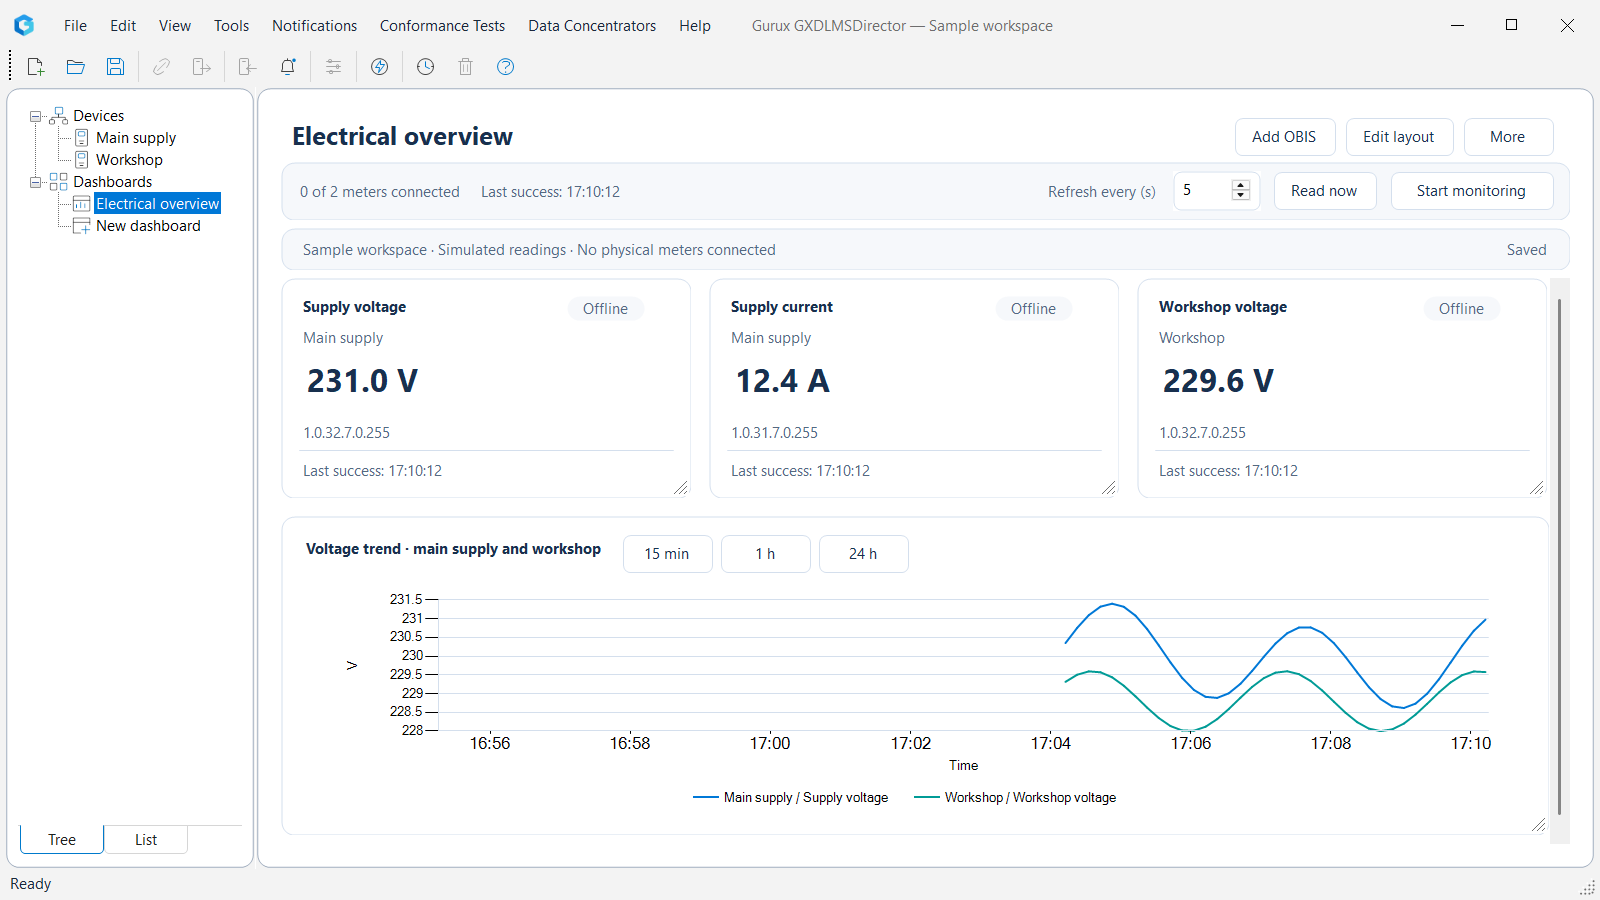
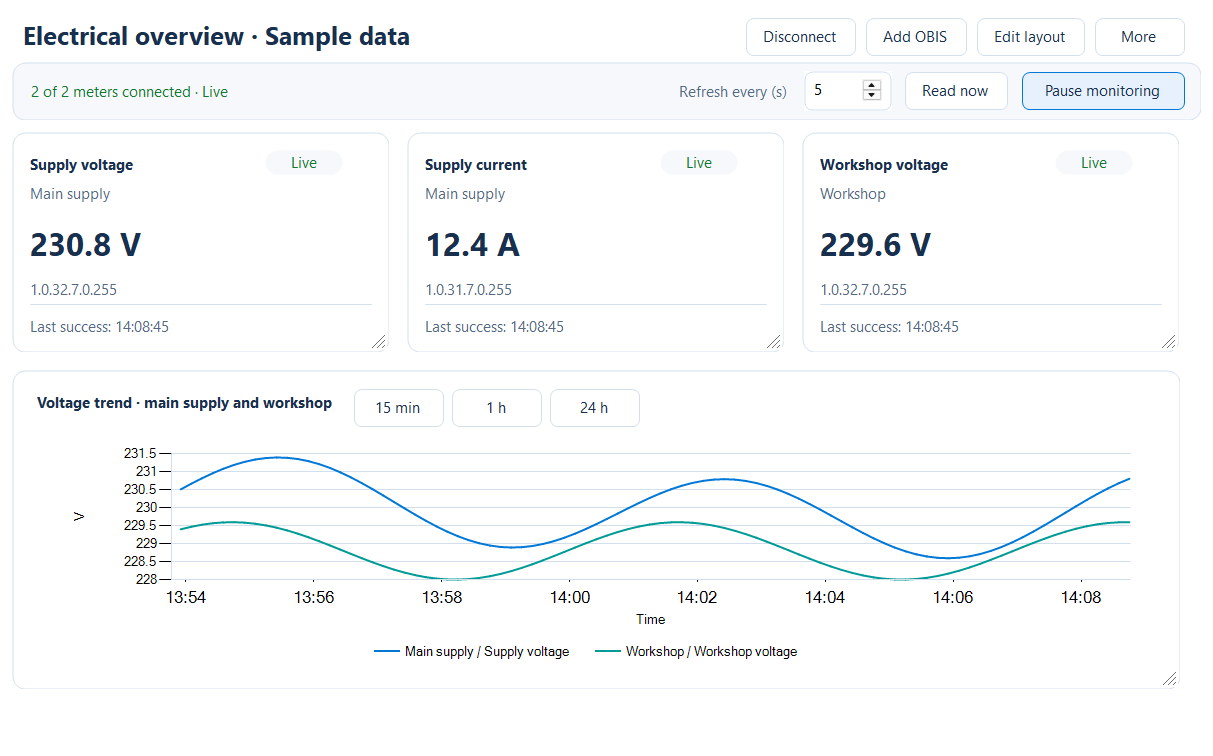
Update README for the public preview and dashboard workflow

diff --git a/README.md b/README.md
@@ -1,69 +1,91 @@
-# GXDLMSDirector — superintelligentmeter fork
+# GXDLMSDirector — Community Edition
 
-An unofficial community fork of [Gurux GXDLMSDirector](https://github.com/Gurux/GXDLMSDirector), maintained by [superintelligentmeter](https://github.com/superintelligentmeter). It combines the original DLMS/COSEM meter tools with an updated Windows interface and customizable multi-meter dashboards.
+An independent community fork of [Gurux GXDLMSDirector](https://github.com/Gurux/GXDLMSDirector), maintained by [superintelligentmeter](https://github.com/superintelligentmeter). It brings the familiar DLMS/COSEM meter tools to **.NET 10**, with refreshed Windows screens and dashboards for measurements from one or several meters.
 
-This is **not an official Gurux release** and does not imply Gurux endorsement. Original GXDLMSDirector and Gurux components are developed by Gurux Ltd; their copyright, attribution and license notices remain applicable.
+GXDLMSDirector has been part of our team's metering work for years. We started this fork to improve that everyday experience while retaining the Gurux.DLMS protocol library at its core. Thank you to **Gurux and its contributors** for the original application and libraries this work builds on.
 
-License: **GPL-2.0-only**. The fork's contributions are distributed under the same license; original Gurux and third-party notices remain applicable. See [LICENSE](LICENSE), [MODIFICATIONS](MODIFICATIONS), [THIRD-PARTY-NOTICES](THIRD-PARTY-NOTICES).
+This is an unofficial fork, not an official Gurux release or an indication of Gurux endorsement. Original copyright, attribution and license notices remain applicable.
 
-## Application preview
+## Download the preview
 
-![GXDLMSDirector with three measurement tiles and a voltage trend for two meters](ui.png)
+**Current preview: 1.0.0-preview.1 · Windows x64 · GPL-2.0-only**
 
-*The application built from this fork, displaying a sample workspace with simulated readings. No physical meters are connected in this screenshot.*
+- **[Download the Windows installer](https://github.com/superintelligentmeter/GXDLMSDirector/releases/download/v1.0.0-preview.1/GXDLMSDirector-1.0.0-preview.1-win-x64-Setup.exe)**
+- [Release notes and all downloads](https://github.com/superintelligentmeter/GXDLMSDirector/releases/tag/v1.0.0-preview.1)
+- [Combined source archive](https://github.com/superintelligentmeter/GXDLMSDirector/releases/download/v1.0.0-preview.1/GXDLMSDirector-1.0.0-preview.1-source.zip) · [SHA-256 checksums](https://github.com/superintelligentmeter/GXDLMSDirector/releases/download/v1.0.0-preview.1/SHA256SUMS.txt)
+
+The per-user installer is built in **Release** configuration and includes the .NET 10 runtime; a separate .NET installation is not required. The installer is unsigned, so Windows may display an unknown-publisher warning.
+
+This is a preview. Automated regression checks, rendered UI checks, and an isolated install/uninstall have passed. Live meter communication was not exercised in the release validation; please evaluate it with your own meters before relying on it for operational work. See the release notes for validation details.
+
+## Dashboard preview
+
+![GXDLMSDirector dashboard with three measurement cards and a two-meter voltage trend, using simulated readings and connection states](ui.png)
+
+*Actual application UI with generated sample readings and simulated connection states. The “Live” indicators illustrate the connected state; no physical meters were connected for this capture.*
 
 ## What this fork adds
 
-- Updated Windows interface, shared control styling and DPI-aware dashboard layout.
-- An embedded **Dashboards** screen alongside **Devices** in the navigation tree.
-- OBIS measurement tiles, numeric trend charts and tables spanning multiple loaded meters.
-- Drag-and-drop ordering, corner resizing and automatically saved dashboard layouts.
-- A meter selector that uses the same loaded objects as the device tree and explains unavailable selections.
-- An optional dashboard module, enabled or disabled through **Tools > Settings > Dashboards** after restarting.
+- **.NET 10:** migrated from .NET Framework 4.8.
+- **Refreshed Windows interface:** more consistent object editors, dialogs and shared controls, with improvements for different display scales.
+- **Multi-meter dashboards:** value cards, numeric trend charts and tables using selected OBIS measurements from the loaded meters.
+- **Customizable layouts:** drag to reorder cards and resize them from their lower-right corners.
+- **Dashboards in your meter file:** layouts and measurement selections are saved inside the existing `.gxc` file.
+- **Coordinated meter operations:** manual commands wait for an in-flight dashboard transaction before accessing the shared DLMS client.
 
-The existing Gurux meter-reading and configuration tools remain part of the application. Dashboards use the existing communicator; they do not connect meters automatically.
+The official **Gurux.DLMS 9.0.2609.2201** NuGet library remains unchanged. The application around it has changed, including the interface and coordination of meter operations.
+
+## Start using dashboards
+
+1. Open or configure your meters under **Devices** and load the objects you want to view.
+2. If **Dashboards** is not visible, enable it under **Tools > Settings > Dashboards**, confirm with **OK**, and restart the application.
+3. Right-click **Dashboards** in the navigation tree and choose **New dashboard...**. Select an existing dashboard to reopen it.
+4. Choose **Add OBIS**, select a meter and its objects, then choose the attribute and display type. A dashboard can combine measurements from multiple meters.
+5. Connect the meters using the dashboard's **Connect** button or the existing device commands. Monitoring starts automatically when a populated dashboard has connected meters, unless paused. Use **Read now** for a single read and the monitoring button to pause or resume polling.
+6. Choose **Edit layout** to arrange the dashboard. **Done** exits editing.
+7. **Save the meter file** to persist your dashboard changes in `.gxc`.
+
+Dashboard edits are collected in the open workspace, but **Done does not save the meter file to disk**. Save the `.gxc` file before closing or switching workspaces. Live trend history is session-only and is not saved in the meter file. Disabling the dashboard feature preserves saved dashboard definitions.
+
+## Development and feedback
+
+This work was developed with support from **AI coding agents, including Codex and Claude**, under our team's supervision, with manual review and QA.
+
+We are continuing to improve the user experience, strengthen reliability, and add features that support metering professionals in their everyday work. [Report a bug or suggest a feature](https://github.com/superintelligentmeter/GXDLMSDirector/issues). For bug reports, include the application version, steps to reproduce, and relevant meter or connection details; remove credentials and sensitive meter data from attachments.
 
 ## Build on Windows
 
-Install the **.NET 10 SDK**, then clone both forks into sibling directories:
+Install the **.NET SDK 10.0.403** pinned in [global.json](global.json), then clone both forks into sibling directories:
 
 ```powershell
 git clone https://github.com/superintelligentmeter/GXDLMSDirector.git
 git clone https://github.com/superintelligentmeter/Gurux.DLMS.UI.Net.git
-dotnet build GXDLMSDirector/Development/GXDLMSDirector46.csproj -c Release -t:Rebuild
+cd GXDLMSDirector
+dotnet build Development/GXDLMSDirector46.csproj -c Release
 ```
 
-Keep the directory names `GXDLMSDirector` and `Gurux.DLMS.UI.Net`; the application references the companion UI project.
+Keep the directory names `GXDLMSDirector` and `Gurux.DLMS.UI.Net`; the application references the companion UI project. Despite its historical filename, `GXDLMSDirector46.csproj` now targets `net10.0-windows`.
 
-The protocol library remains the official Gurux.DLMS 9.0.2609.2201 NuGet package. This GPL dependency is not exempt from redistribution obligations merely because it is unmodified.
+To build the published preview from its exact inputs, use the **combined source archive** attached to the release. It includes the Director and UI source, dependency source archives, notices, and installer build instructions. GitHub's automatically generated source ZIP contains only this repository.
 
-## Use dashboards
+## Two independent versions
 
-1. Load your meters under **Devices** and connect them with the existing application commands.
-2. Select **Dashboards** in the navigation tree, then create or open a dashboard.
-3. Choose **Add OBIS**, select a meter and its objects, then choose an attribute and display type. Measurements can come from multiple meters.
-4. Use **Read now** for a single read or **Start monitoring** for repeated reads.
-5. Drag cards to reorder them and use their lower-right corners to resize. **Done** exits layout editing; changes save automatically. If saving fails, **Not saved · Retry** remains visible.
+- **Community Edition application:** `1.0.0-preview.1`, defined in [Version.props](Version.props). This version identifies release tags and installers.
+- **Gurux.DLMS library:** `9.0.2609.2201`, identifying the underlying protocol dependency.
 
-Dashboard definitions are stored separately from meter files. Save the meter file after dashboard identities are first assigned so those associations survive reopening. Readings and credentials are not included in dashboard JSON.
+**About** shows the application version and the actual loaded Gurux.DLMS library version separately. Updating the dependency does not automatically change the application version.
 
-## Related projects and original Gurux resources
+Application releases use `MAJOR.MINOR.PATCH`, optionally followed by `-preview.N`: PATCH for compatible fixes, MINOR for compatible features, and MAJOR for changes that break compatibility with supported saved files or extension interfaces. Stable releases omit the preview suffix.
+
+## License and attribution
+
+The application and this fork's contributions are distributed under **GPL-2.0-only**. Original Gurux and third-party notices remain applicable. See [LICENSE](LICENSE), [CREDITS](CREDITS), [MODIFICATIONS](MODIFICATIONS), and [THIRD-PARTY-NOTICES](THIRD-PARTY-NOTICES).
+
+Release downloads include a combined source archive and dependency notices alongside the installer. When redistributing, preserve the applicable licenses, copyright and modification notices, and provide corresponding source and build/install materials for the binaries you distribute, including covered dependencies.
+
+## Original Gurux resources and related projects
 
 - [Companion UI fork](https://github.com/superintelligentmeter/Gurux.DLMS.UI.Net)
-- [Original GXDLMSDirector repository](https://github.com/Gurux/GXDLMSDirector)
-- [Original Gurux.DLMS.UI.Net repository](https://github.com/Gurux/Gurux.DLMS.UI.Net)
+- [Original GXDLMSDirector](https://github.com/Gurux/GXDLMSDirector) and [original Gurux.DLMS.UI.Net](https://github.com/Gurux/Gurux.DLMS.UI.Net)
 - [Gurux website](https://www.gurux.fi/) and [GXDLMSDirector overview](https://www.gurux.fi/index.php?q=GXDLMSDirector)
-- [Gurux application help](https://www.gurux.fi/index.php?q=GXDLMSDirectorHelp), [meter settings](https://www.gurux.fi/index.php?q=GXDLMSDirectorExample), and [community forum](https://www.gurux.fi/index.php?q=GXDLMSCOSEMDirectorForum)
-- [Gurux community updates](https://twitter.com/guruxorg)
-
-## Distribution and attribution
-
-Keep the original Gurux copyright, GPL and third-party notices intact. Fork modifications and their notices are recorded in [MODIFICATIONS](MODIFICATIONS); dependency notices are in [THIRD-PARTY-NOTICES](THIRD-PARTY-NOTICES).
-
-Before distributing executables, installers or dependency DLLs, provide complete corresponding source for the exact versions of both forks and all covered dependencies, including unchanged Gurux libraries, alongside the binary download. Preserve the build and installation scripts, license notices, and notices for any bundled runtime; verify that the source builds and that the release archive contains those notices. A source repository or screenshot does not by itself satisfy every binary-release obligation.
-
-## Community Edition versioning
-
-The application has an independent `MAJOR.MINOR.PATCH` version, optionally suffixed with `-preview.N`. `Version.props` is the authoritative application version used by the build and installer. Increment PATCH for compatible fixes, MINOR for compatible features, and MAJOR for changes that break compatibility with supported saved files or extension interfaces. Clear `VersionSuffix` for a stable release.
-
-About shows the application version and the actual loaded Gurux.DLMS library version separately. Updating the Gurux dependency does not automatically change the application version. Releases identify the exact Director and UI-library commits and include the corresponding source and dependency notices.
+- [Application help](https://www.gurux.fi/index.php?q=GXDLMSDirectorHelp), [meter settings](https://www.gurux.fi/index.php?q=GXDLMSDirectorExample), and [community forum](https://www.gurux.fi/index.php?q=GXDLMSCOSEMDirectorForum)
